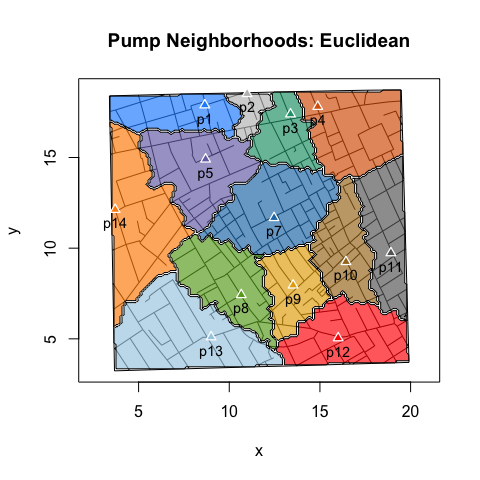
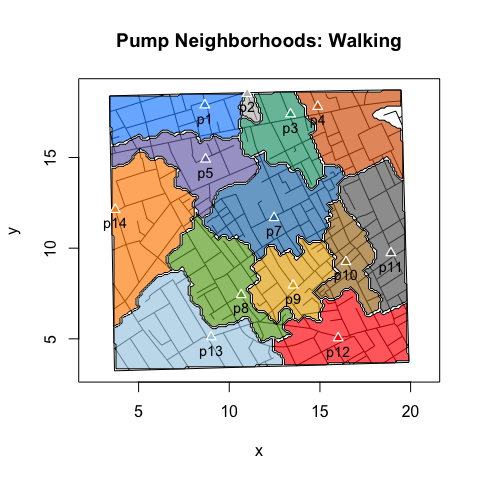
use neighborhoodWalking() example

diff --git a/docs/pearl.strings.md b/docs/pearl.strings.md
@@ -66,7 +66,7 @@ pearlString() cycles through the candidate points and uses reverse epicycles to 
 travelingSalesman() uses the 'TSP' package and its implementation of repetitive nearest neighbors to compute the string of pearls. This is the defaul for euclidean neighbors.
 
 ``` r
-neighborhood <- neighborhoodEuclidean(-6, case.set = "expected", vestry = TRUE)
+neighborhood <- neighborhoodWalking(-6, case.set = "expected", vestry = TRUE)
 
 plot(neighborhood, type = "area.polygons", method = "pearl.string")
 ```
@@ -74,7 +74,7 @@ plot(neighborhood, type = "area.polygons", method = "pearl.string")
 <img src="pearl.strings_files/figure-markdown_github/pearl_string-1.png" style="display: block; margin: auto;" />
 
 ``` r
-neighborhood <- neighborhoodEuclidean(-6, case.set = "expected", vestry = TRUE)
+neighborhood <- neighborhoodWalking(-6, case.set = "expected", vestry = TRUE)
 
 plot(neighborhood, type = "area.polygons", method = "traveling.salesman")
 ```
